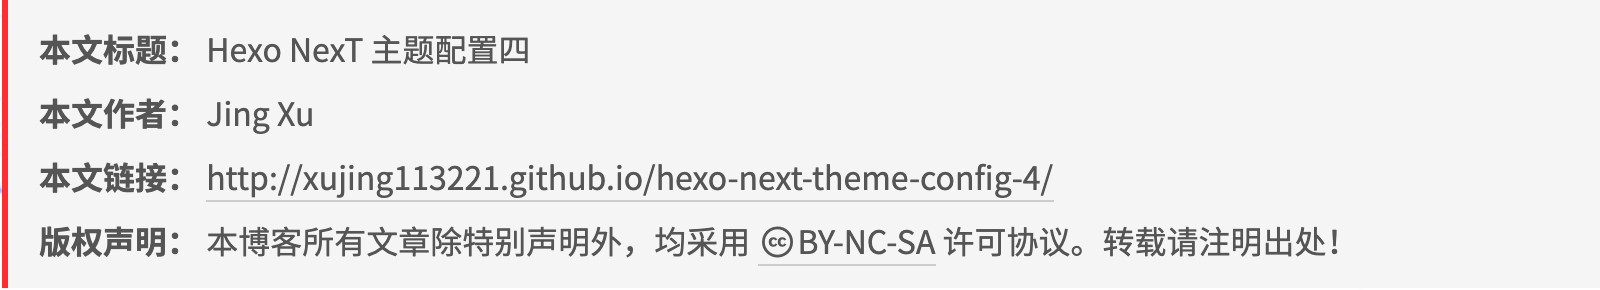
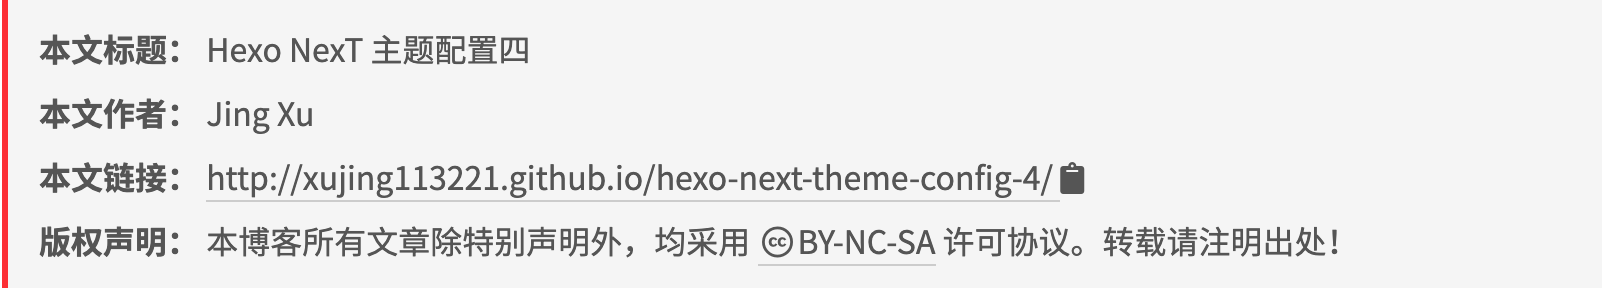
copyright can be copied

diff --git a/myblog/source/_posts/hexo-next-theme-config-4.md b/myblog/source/_posts/hexo-next-theme-config-4.md
@@ -97,39 +97,107 @@ categories:
 ```
 ## 版权声明个性化设置
 
-我主要就想添加个文章标题在版权信息处，剩下的可以依据个人想法自行添加。
+{%note info%}
+本章参见[yearito's Blog | Hexo搭建个人博客系列：进阶设置篇](http://yearito.cn/posts/hexo-advanced-settings.html)
+{%endnote%}
 
 ![效果图](copyright.png "效果图")
 
 + 先找到 {%label success@themes/next/layout/_partials/post/post-copyright.swig %}  添加如下内容：
 ```diff themes/next/layout/_partials/post/post-copyright.swig 
+<!-- JS库 clipboard 拷贝内容到粘贴板-->
+<script src="https://cdn.bootcss.com/clipboard.js/2.0.1/clipboard.min.js"></script>
+<!-- JS库 sweetalert 显示提示信息-->
+<script src="https://unpkg.com/sweetalert/dist/sweetalert.min.js"></script>
 <div>
 <ul class="post-copyright">
-+  <li class="post-copyright-title">
-+   <strong>{{ __('post.copyright.title') + __('symbol.colon') }} </strong>
-+    {{page.title}}             // 只显示文章标题 
-+    <a href="{{page.permalink}}">{{page.title}}</a>  // 显示带链接的文章标题
-+  </li>
+  <li class="post-copyright-title">
+   <strong>{{ __('post.copyright.title') + __('symbol.colon') }} </strong>
+    {{page.title}}             // 只显示文章标题 
+    <a href="{{page.permalink}}">{{page.title}}</a>  // 显示带链接的文章标题
+  </li>
   <li class="post-copyright-author">
     <strong>{{ __('post.copyright.author') + __('symbol.colon') }} </strong>
     {{- page.author or author }}
   </li>
-
+  <!-- 引用链接 -->
+  <li class="post-copyright-link">
+    <strong>{{ __('post.copyright.link') + __('symbol.colon') }}</strong>
+    <a href="{{ post.url | default(post.permalink) }}" title="{{ post.title }}">
+      {{ post.url | default(post.permalink) }}
+    </a>
+    <span class="copy-path" title="点击复制引用链接">
+      <i
+        style="cursor: pointer"
+        class="fa fa-clipboard"
+        data-clipboard-text="[{{ post.author | default(author) }}'s Blog | {{ post.title }}]({{ post.permalink }})"
+        aria-label="{{ __('post.copy_success') }}">
+      </i>
+    </span>
+  </li>
       ....
 
 </ul>
 </div>
+      ....
+<script>
+  var clipboard = new ClipboardJS(".fa-clipboard");
+  clipboard.on("success", function(target) {
+    var message = document.createElement("div");
+    message.innerHTML =
+      '<i class="fa fa-check-circle message-icon"></i><span class="message-content">' +
+      target.trigger.getAttribute("aria-label") +
+      "</span>";
+    swal({
+      content: message,
+      className: "copy-success-message",
+      timer: 1000,
+      button: false
+    });
+  });
+</script>
 ```
 
 + 在主题语言配置文件中 添加如下内容：
 ```diff themes/next/languages/zh-CN.yml
- copyright:
++ copy_success: 复制成功
+  copyright:
 +   title: 本文标题
     author: 本文作者
     link: 本文链接
     license_title: 版权声明
     license_content: "本博客所有文章除特别声明外，均采用 %s 许可协议。转载请注明出处！"
 ```
++ 找到{%label info@themes/next/source/css/_common/components/post/post-copyright.styl%} 添加如下内容：
+```css
+.swal-overlay {
+  background-color: transparent;
+}
+
+.copy-success-message {
+  box-shadow: 0px 4px 12px rgba(0, 0, 0, 0.15);
+  border-radius: 4px;
+  width: auto;
+  margin: 16x 0px;
+  vertical-align: top;
+}
+
+.copy-success-message .swal-content {
+  margin: 0px 0px !important;
+  padding: 10px 16px;
+  line-height: 1em;
+}
+
+.copy-success-message .message-icon {
+  color: #52c41a;
+  margin-right: 8px;
+}
+
+.copy-success-message .message-content {
+  font-size: 14px;
+}
+```
+
 ## 添加看板娘功能
 
 {% note info %}
@@ -195,3 +263,4 @@ live2d:
 + Hexo [搭建个人博客系列：进阶设置篇](http://yearito.cn/posts/hexo-advanced-settings.html)
 + [LeanCloud | JavaScript SDK 开发指南](https://leancloud.cn/docs/leanstorage_guide-js.html)
 + [LeanCloud | JavaScript SDK 安装指南](https://leancloud.cn/docs/sdk_setup-js.html#hash-99064366)
+
